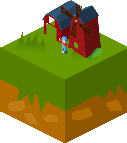
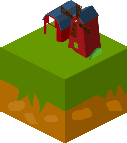
Update farm and market tile design

Changed region(s): [[0.1417, 0.2238, 0.3543, 0.3077], [0.4488, 0.2517, 0.5433, 0.3916], [0.5669, 0.3077, 0.5906, 0.3357]]

diff --git a/source/envVar.py b/source/envVar.py
@@ -10,8 +10,8 @@ windowBoarder = 50
 FPS_available = [25, 30, 45, 60, 75]
 resolution_available = ["720x480", "1280x720", "1920x1080", "Full screen"]
 
-nb_tile_x = 1
-nb_tile_y = 1
+nb_tile_x = 5
+nb_tile_y = 5
 
 default_res = dict(po=500,
                    food=0,
@@ -21,7 +21,8 @@ default_res = dict(po=500,
 tileSize_x = 127
 tileSize_base = 64
 tileSize_y = dict(empty=63,
-                  farm=79)
+                  farm=79,
+                  market=85)
 
 citizen_size_x = 12
 citizen_size_y = 24

diff --git a/source/main.py b/source/main.py
@@ -3,9 +3,6 @@ from envVar import *
 
 from citizen import path_finding
 
-# TODO: Market in iso
-# TODO: Zoom quality bug
-
 # PyGame init
 pygame.init()
 
